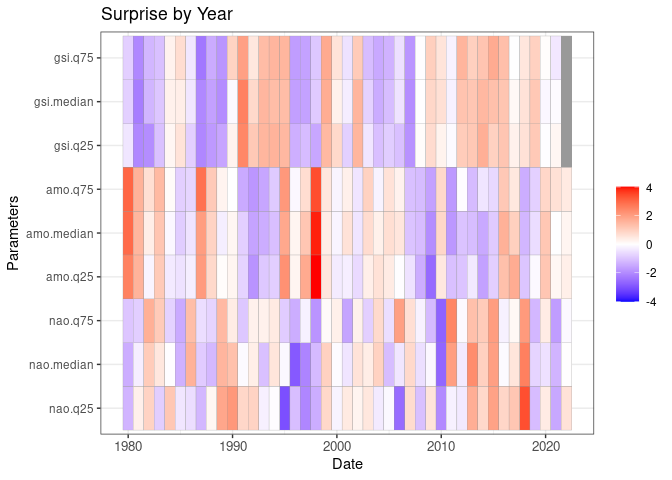
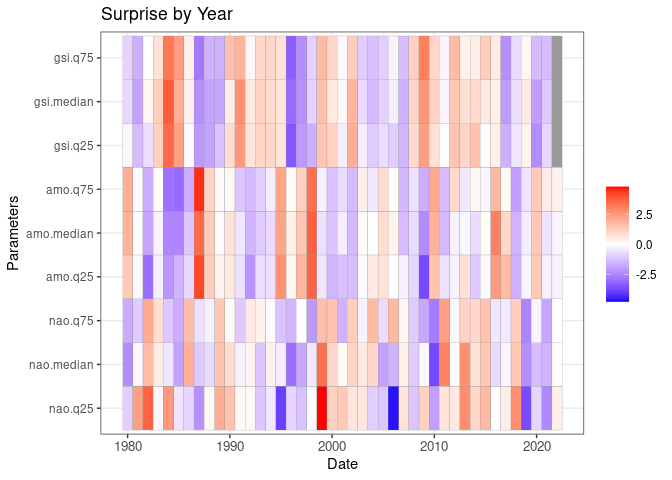
add bsw readme, swap colors for surprise plot

diff --git a/readme/README-bsw.md b/readme/README-bsw.md
@@ -1,0 +1,124 @@
+Blended Sea Winds (BSW)
+================
+
+``` r
+source("../setup.R")
+```
+
+### BSW monthly stats
+
+We downloaded monthly sea wind data from
+[BSW](https://coastwatch.noaa.gov/cwn/products/noaa-ncei-blended-seawinds-nbs-v2.html).
+For each region we computed the pixel statistics values at each month.
+
+> Note that we store the BSW data for by date for each subregion. This
+> file can be updated as needed using `fetch_bswm()` - see below.
+
+``` r
+x <- read_bswm() |> 
+  dplyr::mutate(month = factor(format(date, "%b"), levels = month.abb), .after = 1) |>
+  glimpse()
+```
+
+    ## Rows: 7,758
+    ## Columns: 10
+    ## $ date   <date> 1987-07-23, 1987-07-23, 1987-07-23, 1987-07-23, 1987-07-23, 19…
+    ## $ month  <fct> Jul, Jul, Jul, Jul, Jul, Jul, Jul, Jul, Jul, Jul, Jul, Jul, Jul…
+    ## $ var    <chr> "u_wind", "u_wind", "u_wind", "u_wind", "u_wind", "u_wind", "v_…
+    ## $ region <chr> "Wikinson Basin", "Jordan Basin", "Georges Basin", "Georges Ban…
+    ## $ min    <dbl> 0.275406927, 0.380417109, 0.096577249, 0.040166762, 0.004036248…
+    ## $ q25    <dbl> 0.5708913, 0.5780752, 0.1299248, 0.2546863, 0.9814088, 0.499477…
+    ## $ median <dbl> 0.7049016, 0.8786538, 0.1621024, 0.3760958, 1.4752451, 0.981408…
+    ## $ mean   <dbl> 0.7026565, 0.9299924, 0.1753238, 0.3671849, 1.3359784, 0.822581…
+    ## $ q75    <dbl> 0.8289483, 1.2173259, 0.1940996, 0.4828591, 1.9034610, 1.678808…
+    ## $ max    <dbl> 1.1140124, 1.4335756, 0.3478809, 0.6162763, 2.0142667, 1.927562…
+
+Let’s tally the number of parameters…
+
+``` r
+dplyr::count(x, var)
+```
+
+    ## # A tibble: 3 × 2
+    ##   var           n
+    ##   <chr>     <int>
+    ## 1 u_wind     2586
+    ## 2 v_wind     2586
+    ## 3 windspeed  2586
+
+``` r
+x <- dplyr::group_by(x, region)
+
+ggplot(data = dplyr::filter(x, var == "windspeed"), aes(x = date, y = q75)) +
+  geom_line() + 
+  labs(y = "Q75 Wind Speed") + 
+  geom_smooth(method = "lm", se = FALSE, formula = y ~ x) +
+  facet_wrap(~ region)
+```
+
+![](README-bsw_files/figure-gfm/unnamed-chunk-4-1.png)<!-- -->
+
+``` r
+georges_bank = dplyr::filter(x, region == 'Georges Bank', var == "windspeed")
+ggplot(data = georges_bank, aes(x = date, y = min)) +
+  labs(y = "Min and Max Winds") + 
+  geom_line() + 
+  geom_smooth(method = "lm", se = FALSE) +
+  geom_line(aes(x = date, y = max)) + 
+  geom_smooth(aes(x = date, y = max), method = "lm", se = FALSE, color = "orange") +
+  facet_wrap(~ month)
+```
+
+![](README-bsw_files/figure-gfm/unnamed-chunk-5-1.png)<!-- -->
+
+``` r
+name = "Georges Bank"
+plot(stsaav::stsaav(georges_bank,
+                     t_step = "Month",
+                     tcol = "date",
+                     vcol = "median"),
+    main = paste0(name, ", Monthly Median Windspeed"))
+```
+
+![](README-bsw_files/figure-gfm/unnamed-chunk-6-1.png)<!-- --> \###
+Annual Metrics
+
+Annual metrics can be computed from the various wind variables since
+each month has the same number of pixels are sampled for each region.
+Partial years are not computed.
+
+``` r
+a <- aggregate_bswm(x) |>
+  dplyr::group_by(region) |>
+  dplyr::filter(var %in% c("windspeed"))
+
+ggplot(data = a, aes(x = date, y = median)) + 
+  geom_line(color = "black", alpha = 0.7) +
+  geom_smooth(method = "lm", se = FALSE, color = "black") +
+  geom_line(aes(x = date, y = min), color = "blue", alpha = 0.7) +
+  geom_smooth(aes(x = date, y = min), method = "lm", se = FALSE, color = "blue") +
+  geom_line(aes(x = date, y = max), color = "orange", alpha = 0.7) + 
+  geom_smooth(aes(x = date, y = max), method = "lm", se = FALSE, color = "orange") + 
+  labs(y = "Median, Min and Max SST") + 
+  facet_wrap(~region)
+```
+
+![](README-bsw_files/figure-gfm/unnamed-chunk-7-1.png)<!-- --> \###
+Surprises
+
+``` r
+x = widen_bswm(by = "year")
+s = surprise(x, win = 20)
+```
+
+``` r
+plot_surprise(s)
+```
+
+![](README-bsw_files/figure-gfm/unnamed-chunk-9-1.png)<!-- -->
+
+### Updating the local dataset
+
+It’s easy to build or renew the local dataset.
+
+    r <- fetch_bswm()

diff --git a/readme/README-surprise.md b/readme/README-surprise.md
@@ -25,7 +25,7 @@ plot_export(x)
 Plot without binning into surprise categories.
 
 ``` r
-win = 20
+win = 10
 s = surprise(x, win = win) |>
   dplyr::filter(date >= as.Date("1980-01-01"))
 
